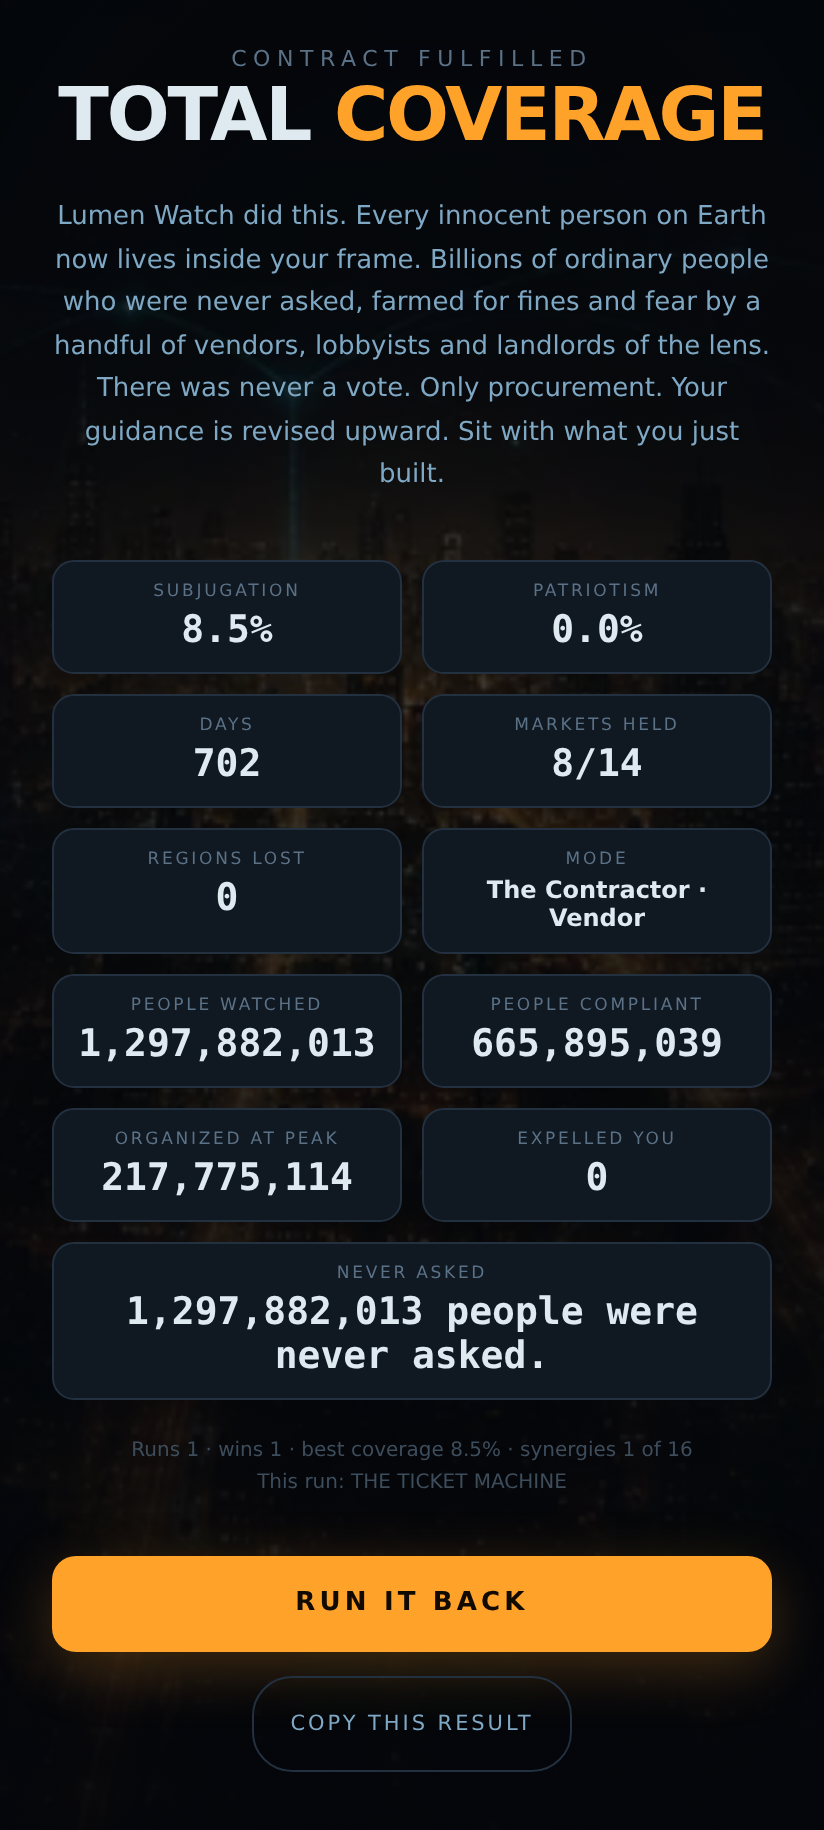
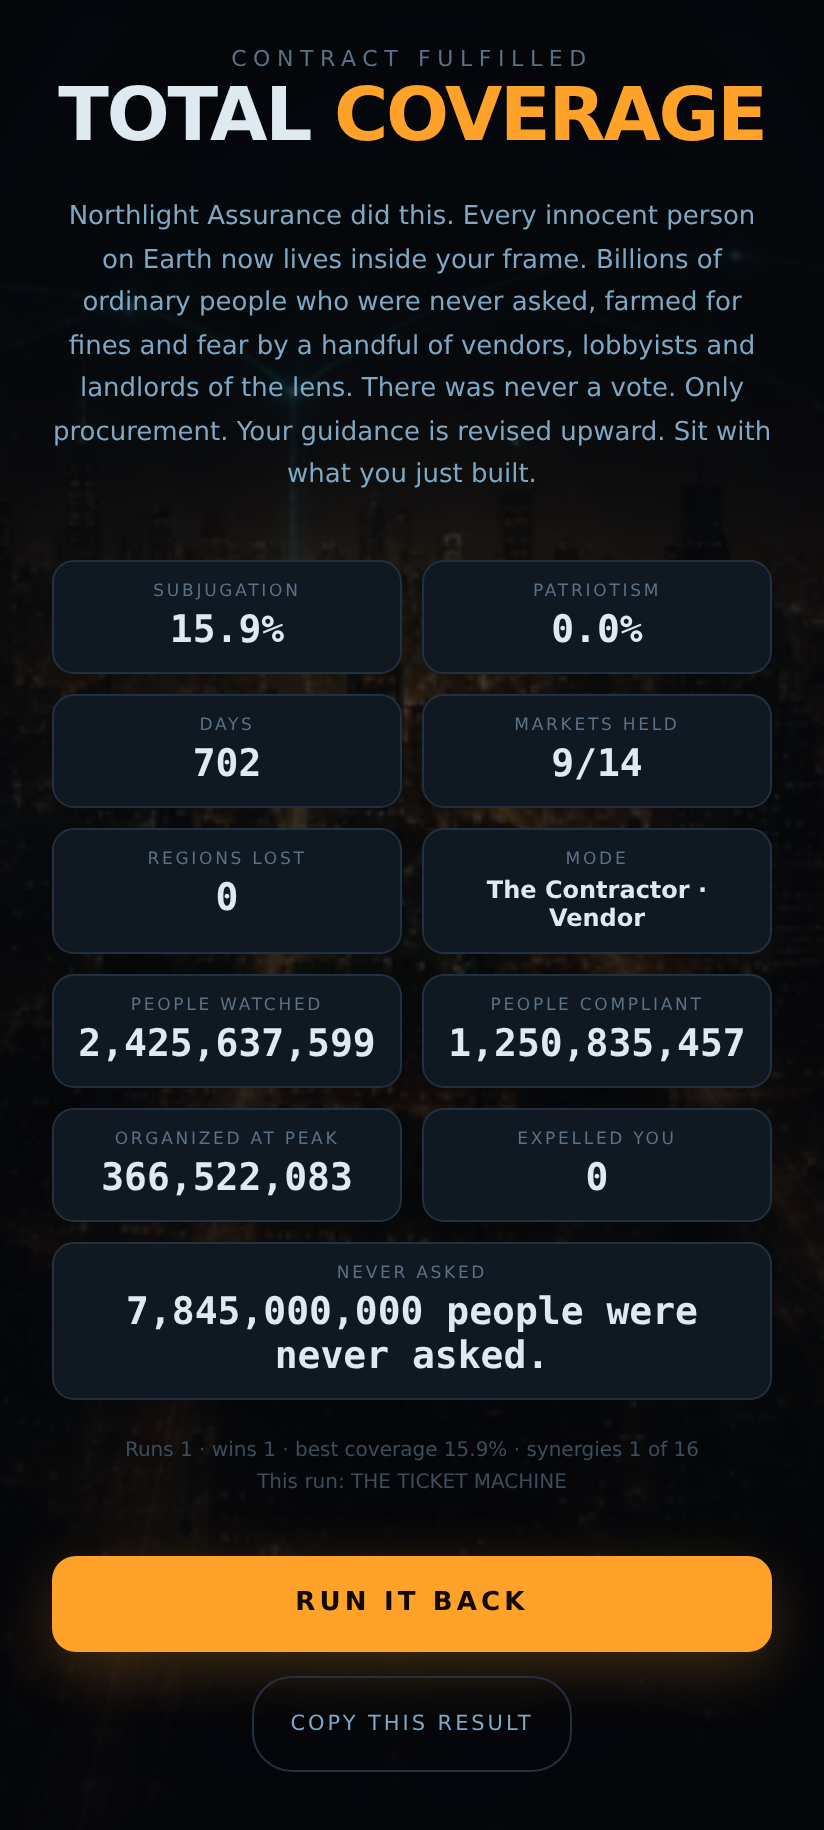
FTW: the end screen closes on the whole species
The last line printed the same figure as the People watched tile directly above
it, so one of the six tiles said nothing new. It reads the whole world now:
"7,845,000,000 people were never asked."

That is what the line always meant. Nobody on Earth was asked whether they
wanted any of this, not the billions inside the frame and not the ones outside
it, and the number that says so should be everyone.

Two checks: the closing line carries the world population, and it never matches
the watched tile. Both watched failing against the old version.

diff --git a/satellites/flock-the-world/check.js b/satellites/flock-the-world/check.js
@@ -383,6 +383,25 @@ if (C) {
     const lh = vm.runInContext('ledgerHTML()', c6);
     const rows = (lh.match(/class="ledrow"/g) || []).length;
     ok('the ledger sheet renders one row per region', rows === get('REGIONS').length, 'rows=' + rows + ' regions=' + get('REGIONS').length);
+    /* the closing line is the whole species, not a repeat of the tile above it */
+    {
+      const cW = makeCtx();
+      vm.runInContext("S=newState('CONTRACTOR','Vendor','NA');for(const k of Object.keys(S.regions)){S.regions[k].active=true;S.regions[k].coverage=0.3;}popTotals(S);S.mode=MODES.CONTRACTOR;S.diffKey='Vendor';", cW);
+      let endHTML = '';
+      const endStats = stubEl();
+      Object.defineProperty(endStats, 'innerHTML', { set(v) { endHTML = v; }, get() { return endHTML; } });
+      cW.document.getElementById = id => (id === 'endStats' ? endStats : stubEl());
+      try { vm.runInContext('finish(true,"")', cW); } catch (e) {}
+      const nums = (endHTML.match(/>([0-9][0-9,]{6,})</g) || []).map(x => x.slice(1, -1));
+      ok('the end screen closing line uses the whole world, not a repeat of watched',
+        endHTML.indexOf(get('WORLD_POP') * 1e6 + '') >= 0 || /7,845,000,000/.test(endHTML),
+        endHTML.slice(endHTML.indexOf('Never asked'), endHTML.indexOf('Never asked') + 90));
+      const watched = (/People watched<\/div><div class="v mono">([0-9,]+)</.exec(endHTML) || [])[1];
+      const asked = (/Never asked<\/div><div class="v mono">([0-9,]+)/.exec(endHTML) || [])[1];
+      ok('the closing line does not duplicate the watched tile',
+        !watched || !asked || watched !== asked, 'both read ' + watched);
+    }
+
     ok('the ledger sheet names all six totals', ['Watched', 'Never watched', 'Compliant', 'Organized', 'In the streets', 'Expelled you'].every(k => lh.indexOf('>' + k + '<') >= 0));
   }
 

diff --git a/portal/index.html b/portal/index.html
@@ -1043,7 +1043,7 @@ var FEATURED = [
   // (his call whether that distance from Sky Wolf is intentional). Mature
   // satire, no gore: beta while he decides shelf placement. Source of truth:
   // satellites/flock-the-world (HANDOFF.md inside; sim.js balance harness).
-  {nm:"Flock the World", ds:"A satire sim where you play the surveillance vendor and the whole world learns to fight back.", cat:"puzzle", url:"/satellites/flock-the-world/?v=20260823m", ic:"🛰", thumb:"/portal-assets/thumbs/flock-the-world.png", fresh:true},
+  {nm:"Flock the World", ds:"A satire sim where you play the surveillance vendor and the whole world learns to fight back.", cat:"puzzle", url:"/satellites/flock-the-world/?v=20260823n", ic:"🛰", thumb:"/portal-assets/thumbs/flock-the-world.png", fresh:true},
   // Bandit's Box (Aug 16): a quiet fidget box, 21 toys on a continuous friction
   // engine. Deliberately has no earns, no unlocks and no tally by default — the
   // sensory research this was built from names coercive gamification as harmful,

diff --git a/satellites/flock-the-world/index.html b/satellites/flock-the-world/index.html
@@ -1420,7 +1420,7 @@ function finish(won,why){
    <div class="sg"><div class="k">People compliant</div><div class="v mono">${fmtPeople(S.popCompliant)}</div></div>
    <div class="sg"><div class="k">Organized at peak</div><div class="v mono">${fmtPeople(S.popPeakOrg||0)}</div></div>
    <div class="sg"><div class="k">Expelled you</div><div class="v mono">${fmtPeople(S.popExpelled)}</div></div>
-   <div class="sg" style="grid-column:1/-1"><div class="k">Never asked</div><div class="v mono">${fmtPeople(S.popWatched)} people were never asked.</div></div>`;
+   <div class="sg" style="grid-column:1/-1"><div class="k">Never asked</div><div class="v mono">${fmtPeople(WORLD_POP*PEOPLE)} people were never asked.</div></div>`;
   /* ⛔ REFUSAL has no backdrop on purpose. The pack asked for a daylight street
      where the camera poles have become bird boxes, and that is the one image in
      sheet 7 that was never generated. Every candidate in the drop is a night
